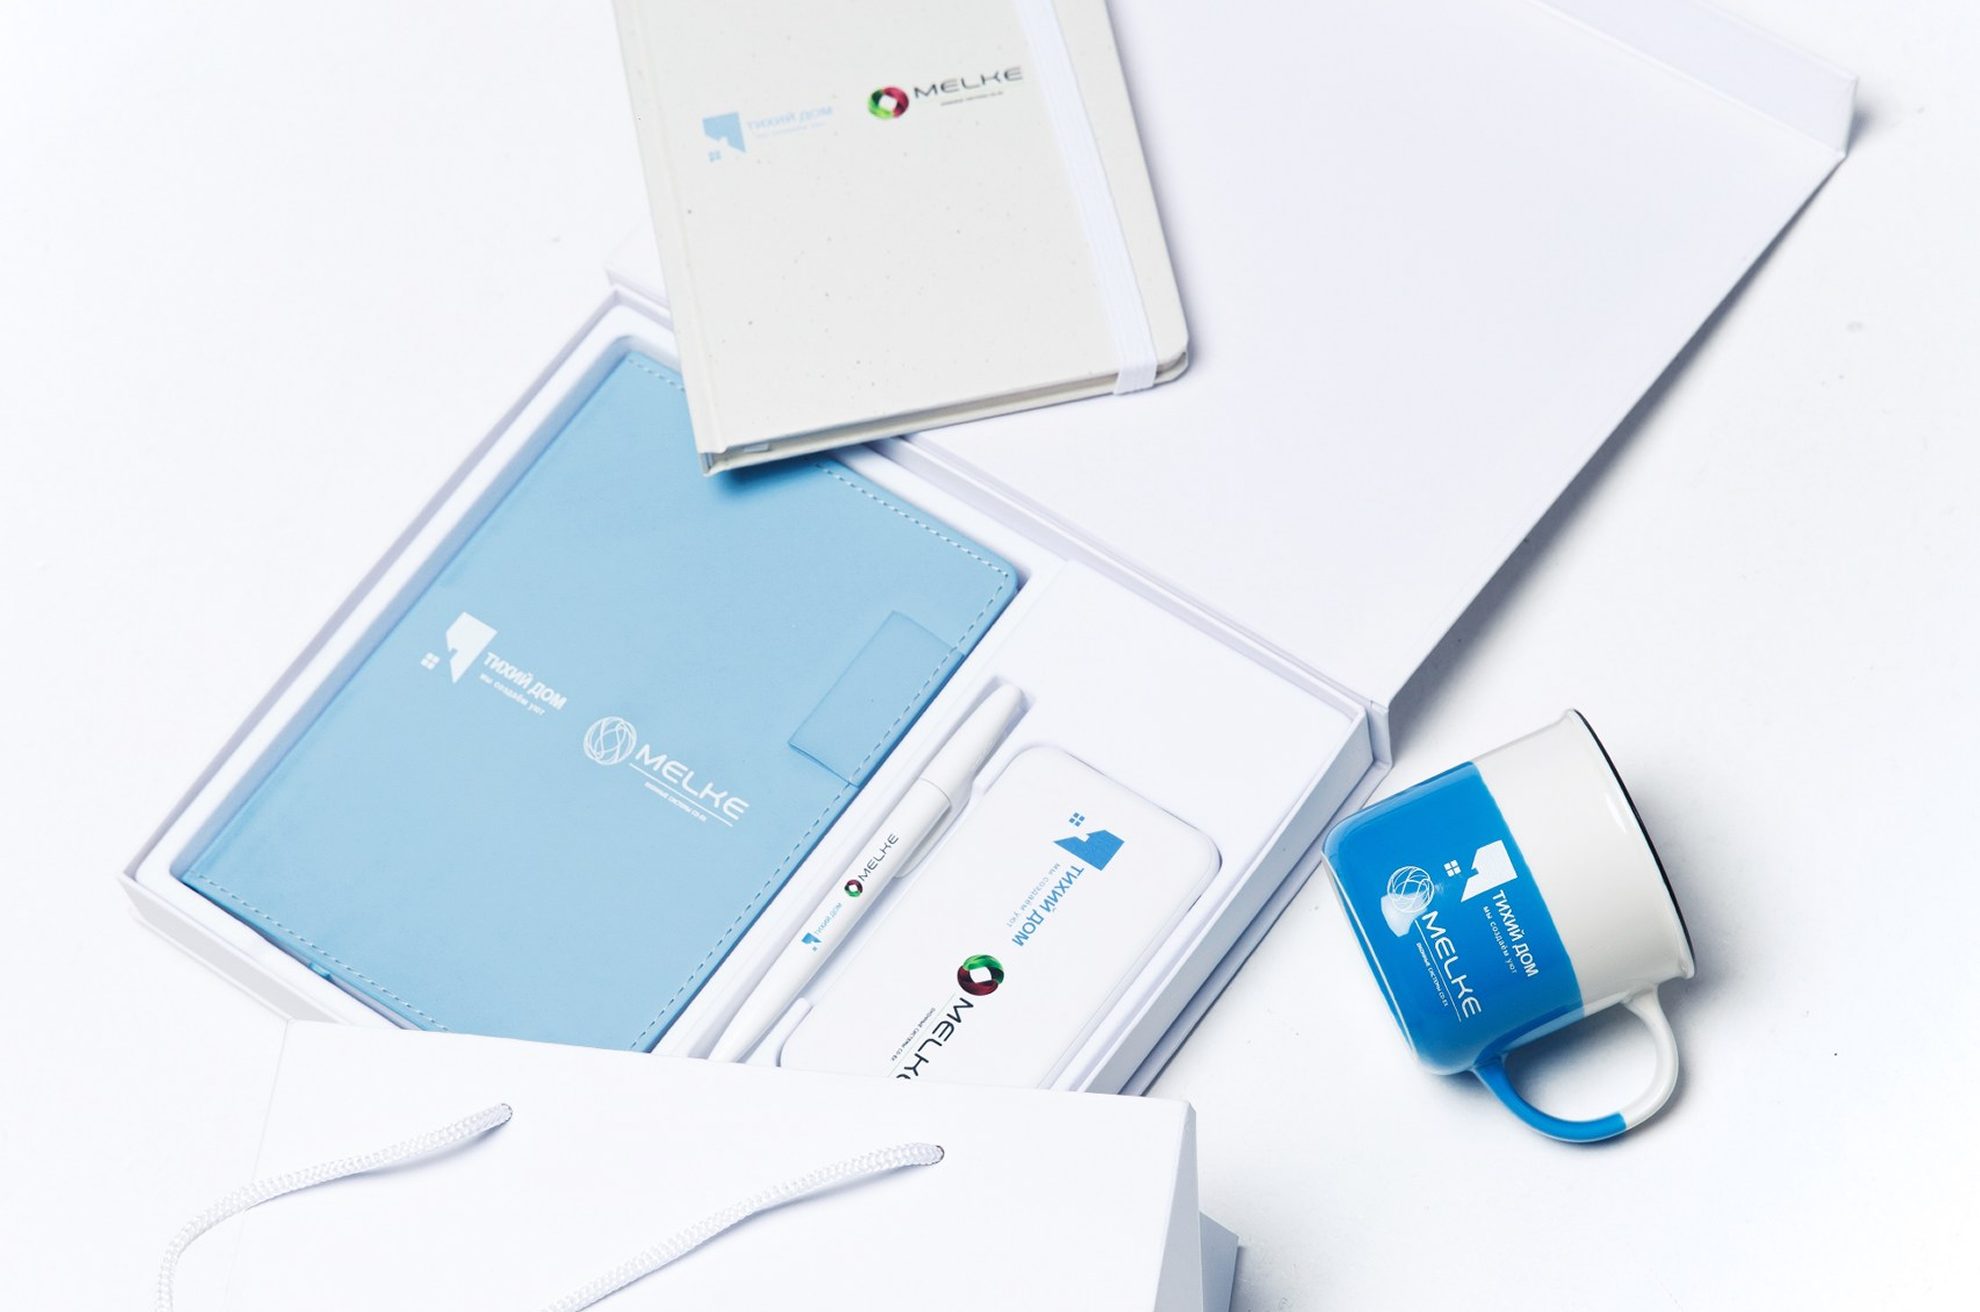
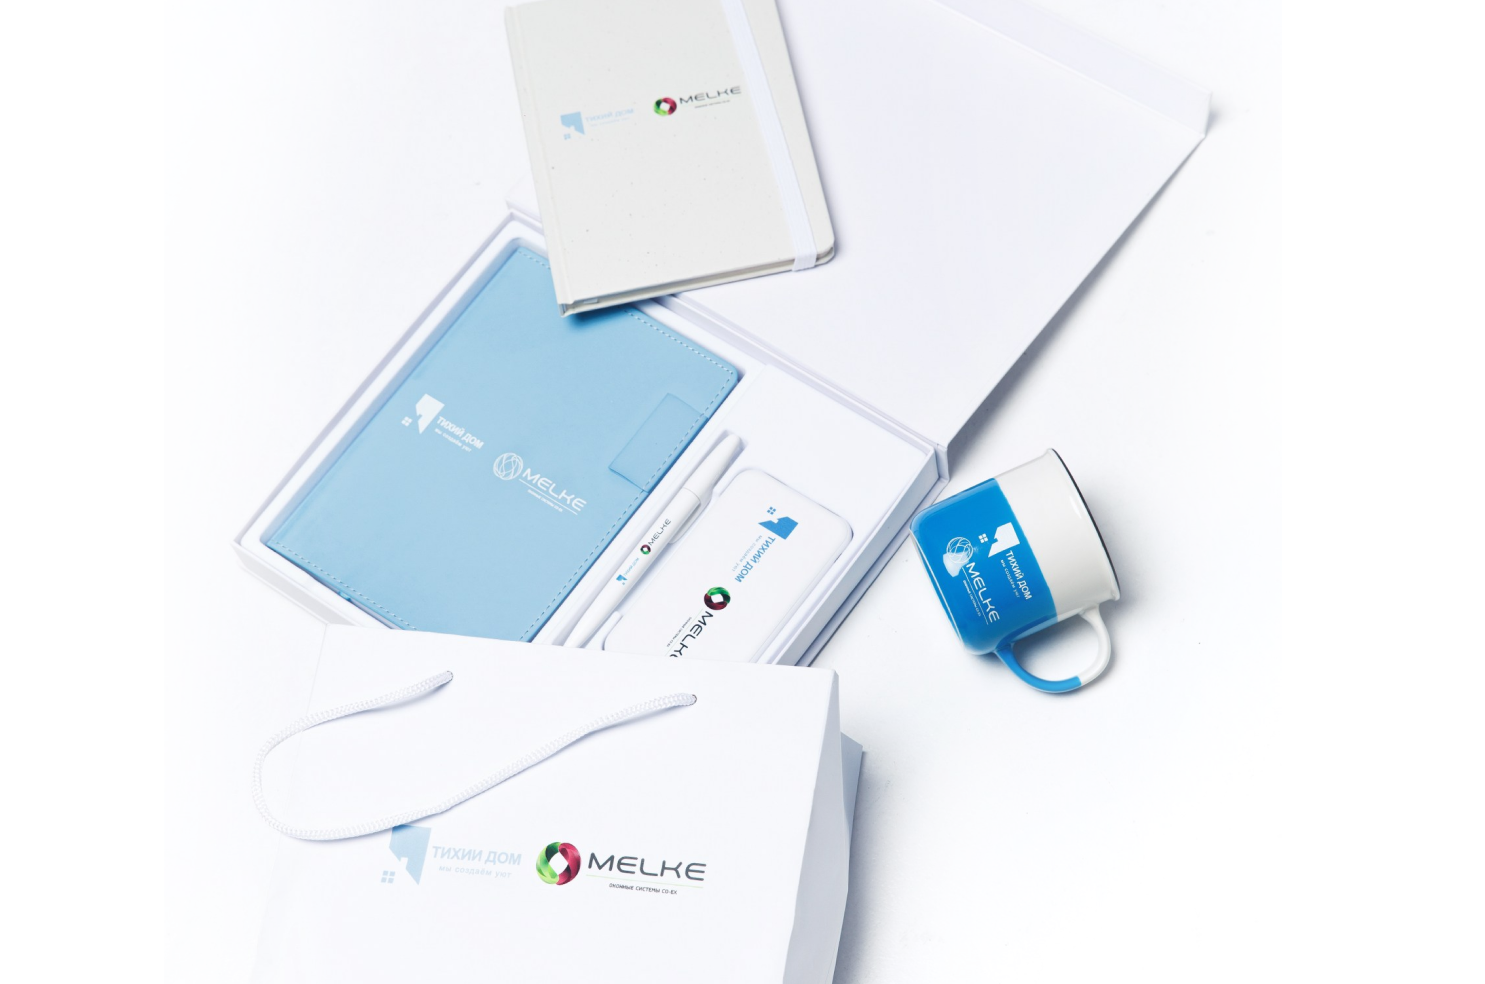
Подвигал картинки в Кейсах с результатом

diff --git a/src/widgets/home-results/home-results.tsx b/src/widgets/home-results/home-results.tsx
@@ -42,7 +42,7 @@ const RESULT_SLIDES = [
     result:
       "250 пледов для Уфаойл стали частью имиджевой коммуникации с партнёрами. Подарок подчеркнул уровень компании, показал уважение к получателю и усилил ценность деловых отношений.",
     image: {
-      src: "/home/results_2.png",
+      src: "/home/results5.png",
       alt: "Подарочный набор с пледом",
     },
   },
@@ -156,7 +156,7 @@ function ResultSlideLayout({ slide, activeIndex, onPrevClick, onNextClick }: Res
                 alt={item.image.alt}
                 fill
                 sizes="(max-width: 1279px) 100vw, 447px"
-                className="object-cover object-top image-hover-scale"
+                className="object-cover image-hover-scale"
               />
             </div>
           ))}

diff --git a/src/views/partner-catalog/ui/partner-catalog-page.tsx b/src/views/partner-catalog/ui/partner-catalog-page.tsx
@@ -55,6 +55,12 @@ function getCatalogImageCacheKey(src: ComponentProps<typeof Image>["src"]) {
   return "src" in src ? src.src : src.default.src;
 }
 
+function shouldBypassNextImageOptimizer(src: ComponentProps<typeof Image>["src"]) {
+  const imageSrc = getCatalogImageCacheKey(src);
+
+  return imageSrc.startsWith("/gifts_export/");
+}
+
 function useOutsideClick(ref: RefObject<HTMLElement | null>, onOutside: () => void, enabled: boolean) {
   useEffect(() => {
     if (!enabled) {
@@ -214,6 +220,7 @@ function CatalogImageWithSkeleton({
       <Image
         {...props}
         alt={alt}
+        unoptimized={props.unoptimized ?? shouldBypassNextImageOptimizer(props.src)}
         onLoad={(event) => {
           loadedCatalogImageKeys.add(imageCacheKey);
           setIsLoaded(true);

diff --git a/src/views/partner-catalog/ui/partner-catalog-product-page.tsx b/src/views/partner-catalog/ui/partner-catalog-product-page.tsx
@@ -50,6 +50,12 @@ function getCatalogImageCacheKey(src: ComponentProps<typeof Image>["src"]) {
   return "src" in src ? src.src : src.default.src;
 }
 
+function shouldBypassNextImageOptimizer(src: ComponentProps<typeof Image>["src"]) {
+  const imageSrc = getCatalogImageCacheKey(src);
+
+  return imageSrc.startsWith("/gifts_export/");
+}
+
 type PartnerCatalogProductPageProps = {
   detail: PartnerCatalogProductDetail;
   listingHref: string;
@@ -297,6 +303,7 @@ function DetailImageWithSkeleton({
       <Image
         {...props}
         alt={alt}
+        unoptimized={props.unoptimized ?? shouldBypassNextImageOptimizer(props.src)}
         onLoad={(event) => {
           loadedDetailImageKeys.add(imageCacheKey);
           setIsLoaded(true);
